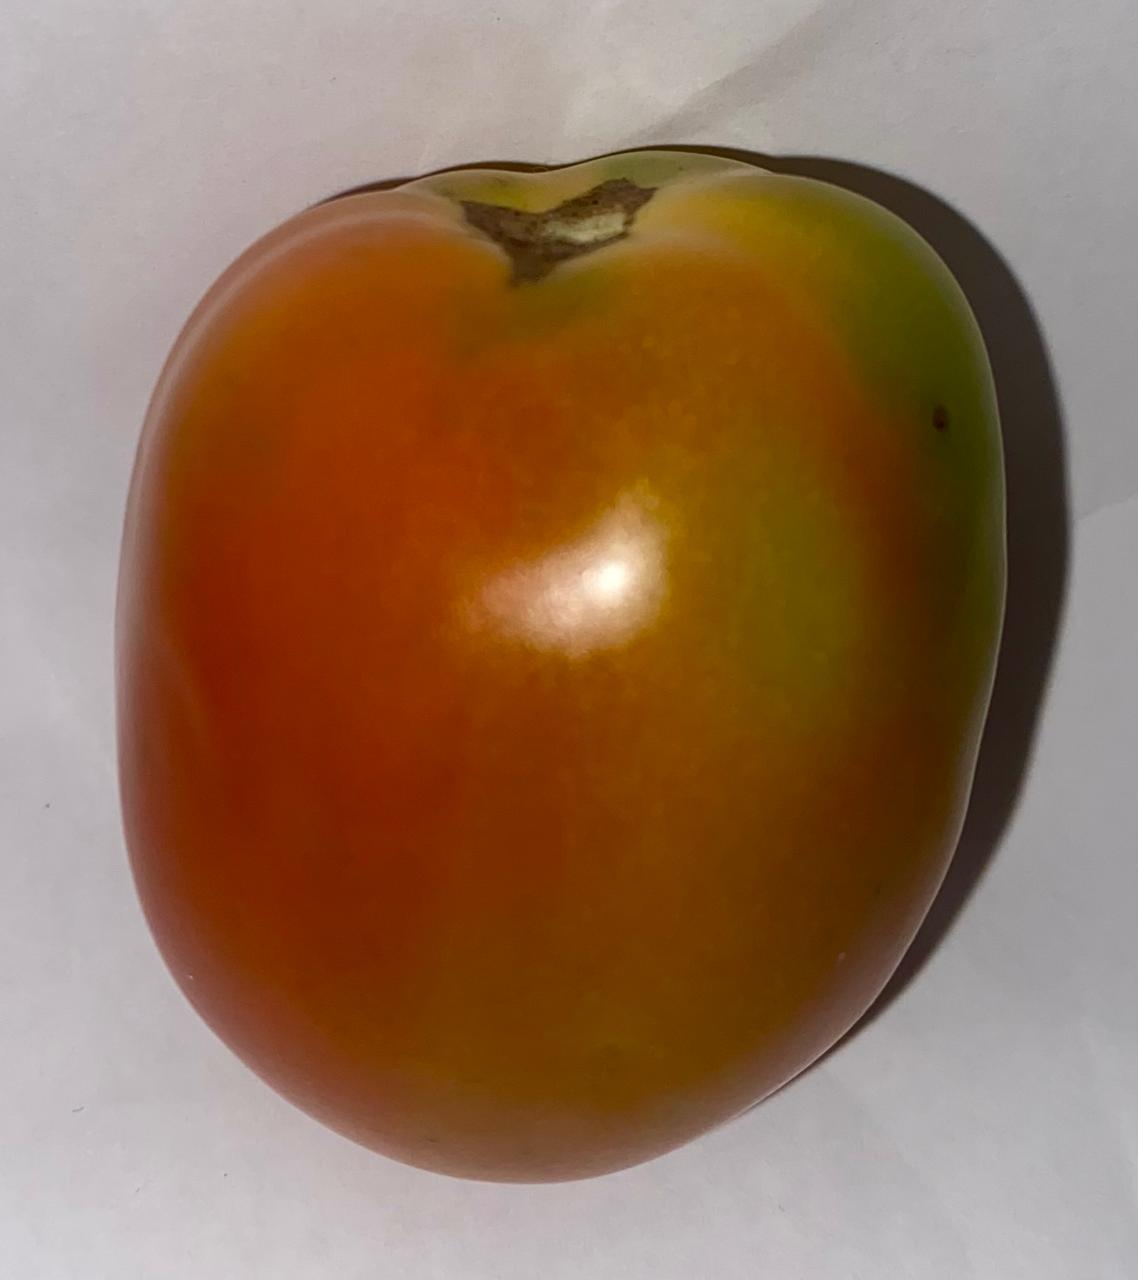
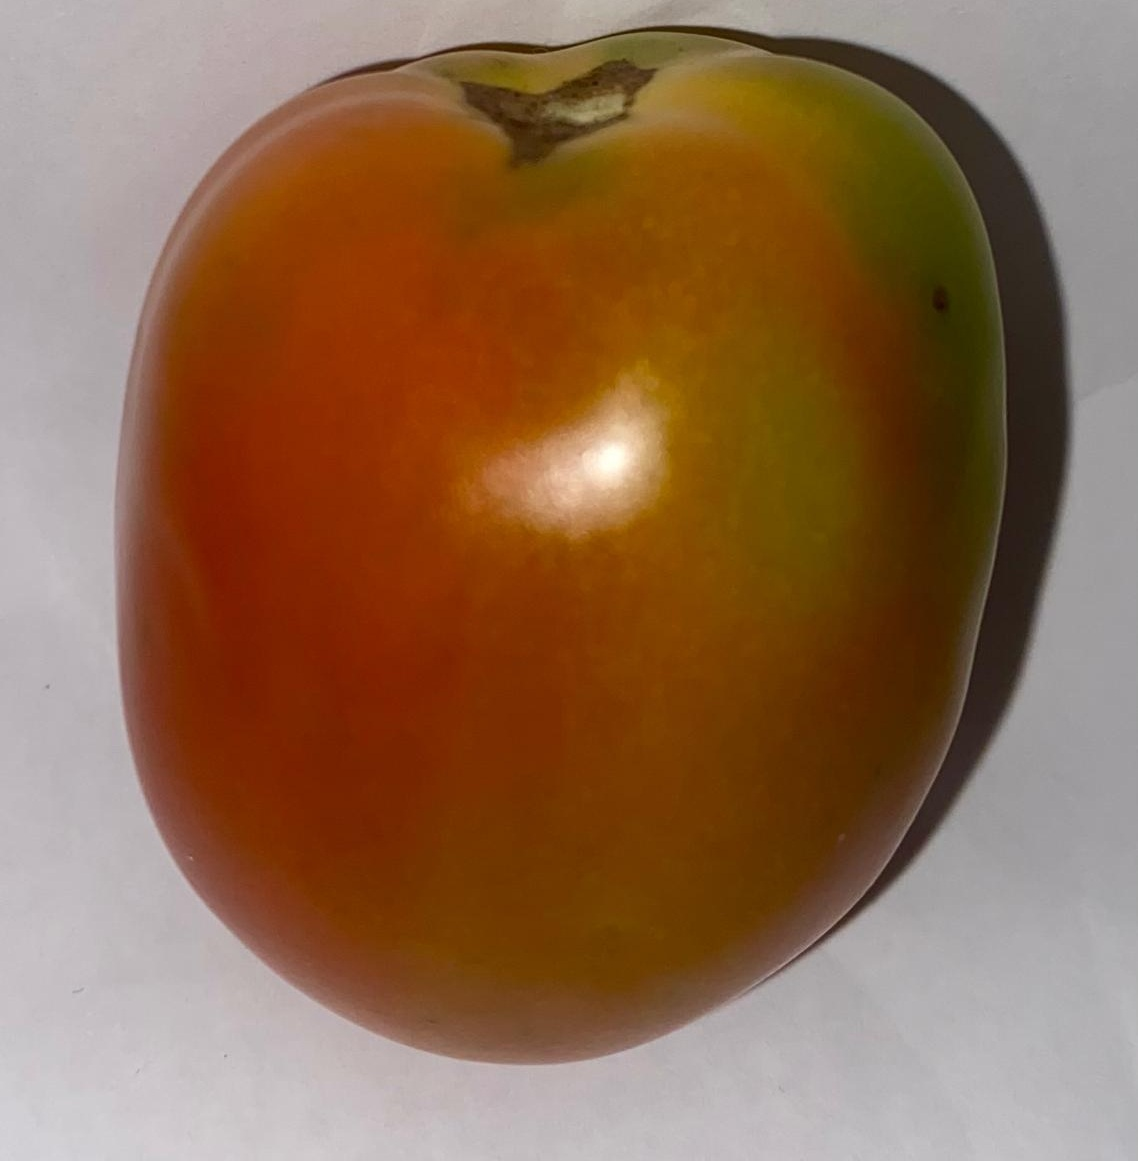
update

diff --git a/program/rgb_hsi.py b/program/rgb_hsi.py
@@ -1,0 +1,56 @@
+import numpy as np
+
+def rgb_to_hsi(R, G, B):
+    # Normalisasi RGB ke [0,1]
+    R, G, B = R / 255.0, G / 255.0, B / 255.0
+    print(f"R' = {R:.4f}")
+    print(f"G' = {G:.4f}")
+    print(f"B' = {B:.4f}")
+     
+    # Hitung Intensitas (I)
+    I = (R + G + B) / 3
+    
+    # Hitung Saturasi (S)
+    min_RGB = min(R, G, B)
+    if R + G + B == 0:
+        S = 0
+    else:
+        S = 1 - (3 * min_RGB) / (R + G + B)
+    
+    # Hitung Hue (H)
+    num = 0.5 * ((R - G) + (R - B))
+    denom = np.sqrt((R - G)**2 + (R - B) * (G - B)) + 1e-6  # Tambah epsilon untuk hindari pembagian nol
+    theta = np.arccos(num / denom)
+
+    print(f"pembilang = {theta}")
+    
+    # print(f"TESST ======================== {(R - G)**2 + (R - B) * (G - B)}") 
+
+    if B > G:
+        H = 360 - np.degrees(theta)
+        print('B > G')
+    else:
+        H = np.degrees(theta)
+        print('B < G')
+    
+   
+    Hdeg = H
+
+
+    # Normalisasi Hue ke [0,1]
+    H /= 360.0
+
+   
+    return H, S, I, Hdeg
+
+# Input RGB
+R, G, B = 137, 15, 4
+
+H, S, I, Hdeg = rgb_to_hsi(R, G, B)
+
+# Cetak hasil
+print("===========")
+print(f"H = {Hdeg:.4f} (dalam derajat)")
+print(f"H = {H:.4f} (dalam rentang 0-1)")
+print(f"S = {S:.4f}")
+print(f"I = {I:.4f}")

diff --git a/program/segmentasi_new_8pxl.py b/program/segmentasi_new_8pxl.py
@@ -3,7 +3,7 @@ import numpy as np
 import matplotlib.pyplot as plt
 
 # Baca gambar dan konversi ke HSV dan RGB
-img = cv2.imread("tomat/matang/1.jpg")
+img = cv2.imread("tomat/mentah/1.jpg")
 img_rgb = cv2.cvtColor(img, cv2.COLOR_BGR2RGB)
 hsv = cv2.cvtColor(img, cv2.COLOR_BGR2HSV)
 
@@ -64,18 +64,31 @@ selected_pixels = pixel_indices[np.random.choice(len(pixel_indices), 8, replace=
 
 
 # Coordinat Matang
-selected_pixels = np.array([
-[548,924],
-[459,857],
-[333,694],
-[336,523],
-[924,349],
-[1053,655],
-[958,912],
-[621,602],
-])
+# selected_pixels = np.array([
+# [262,510],
+# [713,719],
+# [161,631],
+# [295,325],
+# [828,453],
+# [951,400],
+# [674,880],
+# [715,420]
+# ])
+
 
 # Coordinat Mentah
+selected_pixels = np.array([
+[68 ,239],
+[301 ,509],
+[387 ,522],
+[556 ,198],
+[263 ,290],
+[52 ,282],
+[446 ,189],
+[501 ,155],
+])
+
+# Coordinat Setengah_Matang
 # selected_pixels = np.array([
 # [851, 354],
 # [633, 185],
@@ -87,17 +100,6 @@ selected_pixels = np.array([
 # [938, 372],
 # ])
 
-# Coordinat Setengah_Matang
-# selected_pixels = np.array([
-# [298, 279],
-# [984, 862],
-# [293, 822],
-# [497, 217],
-# [789, 936],
-# [899, 873],
-# [1091, 531],
-# [835, 424],
-# ])
 
 
 # === 8. TAMPILKAN PIXEL DI CITRA RGB DAN HSI ===
